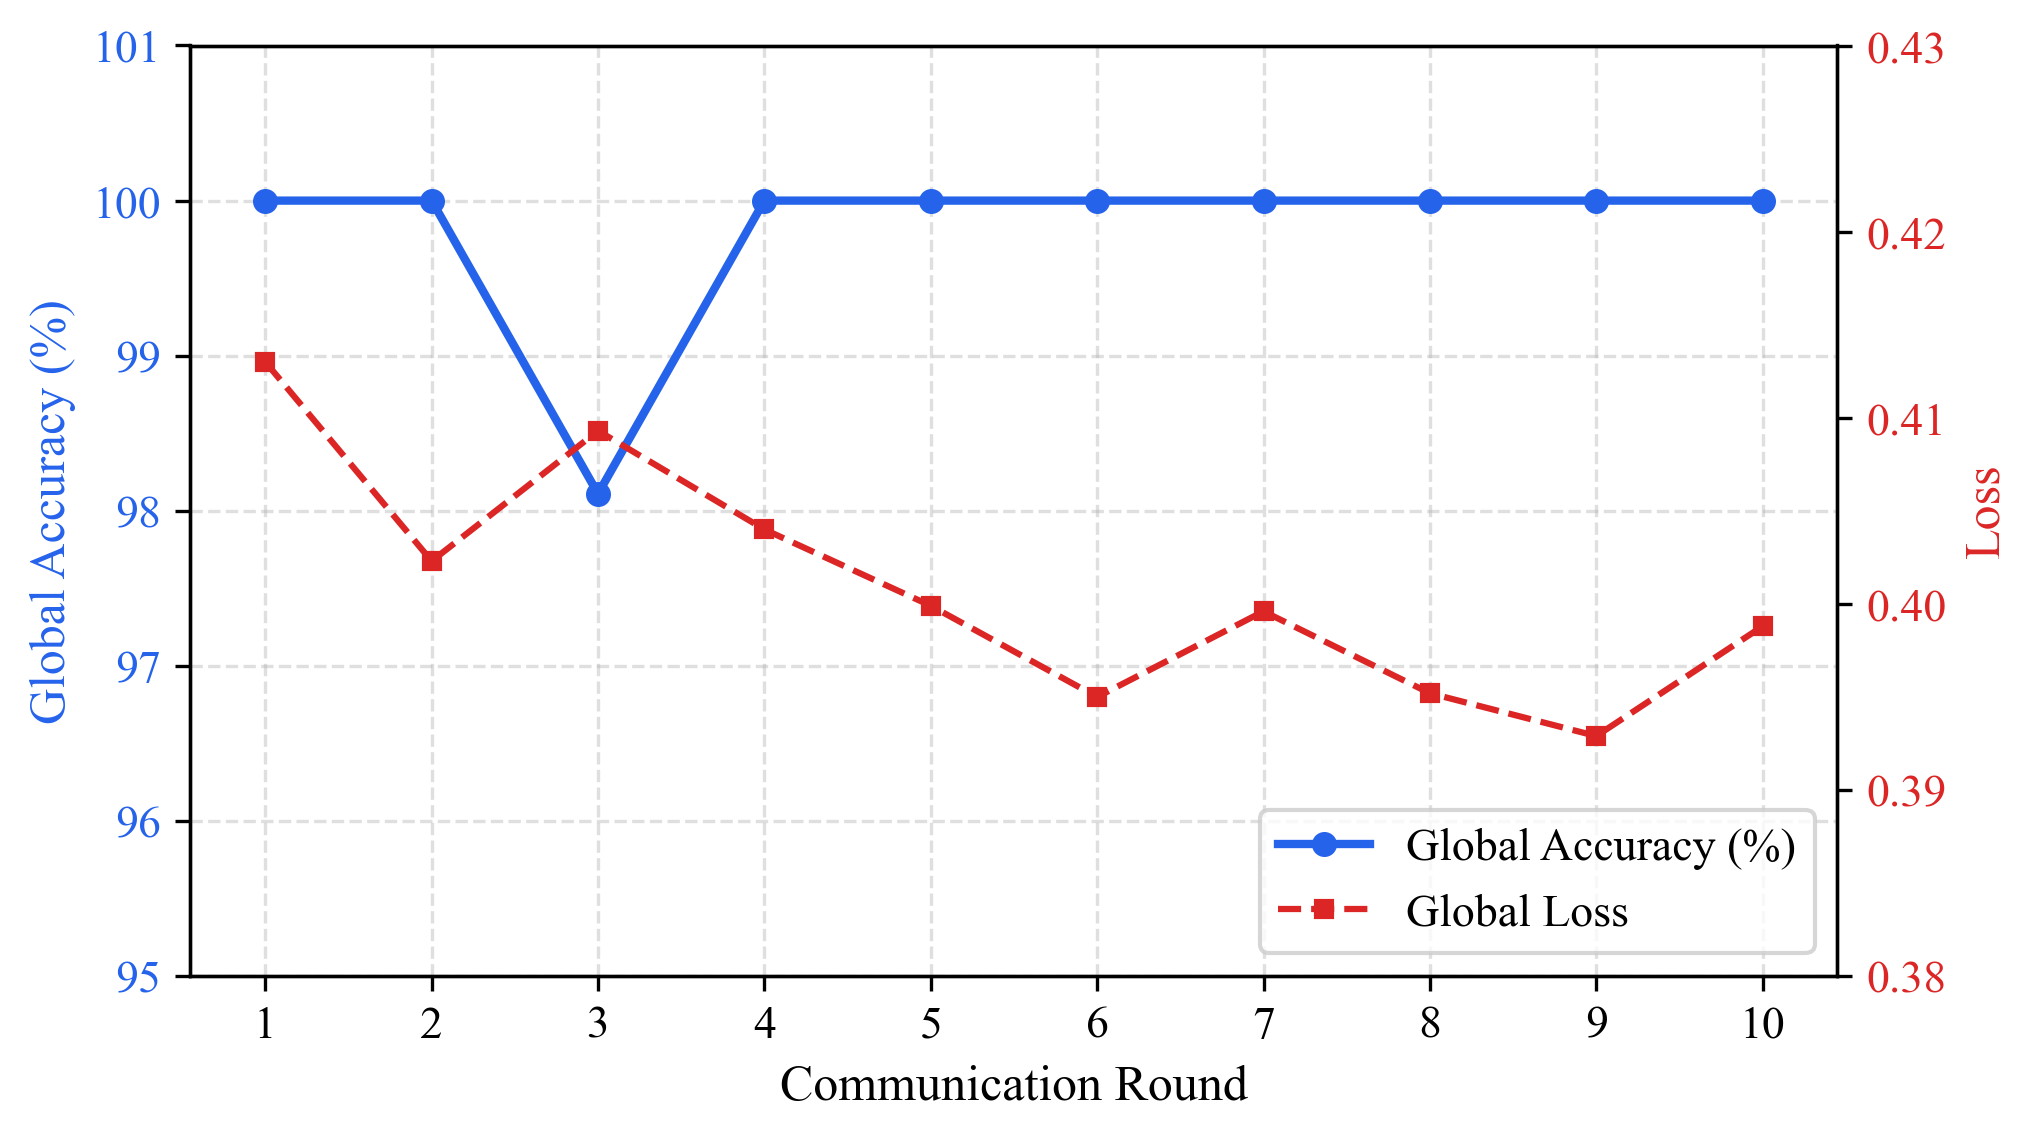
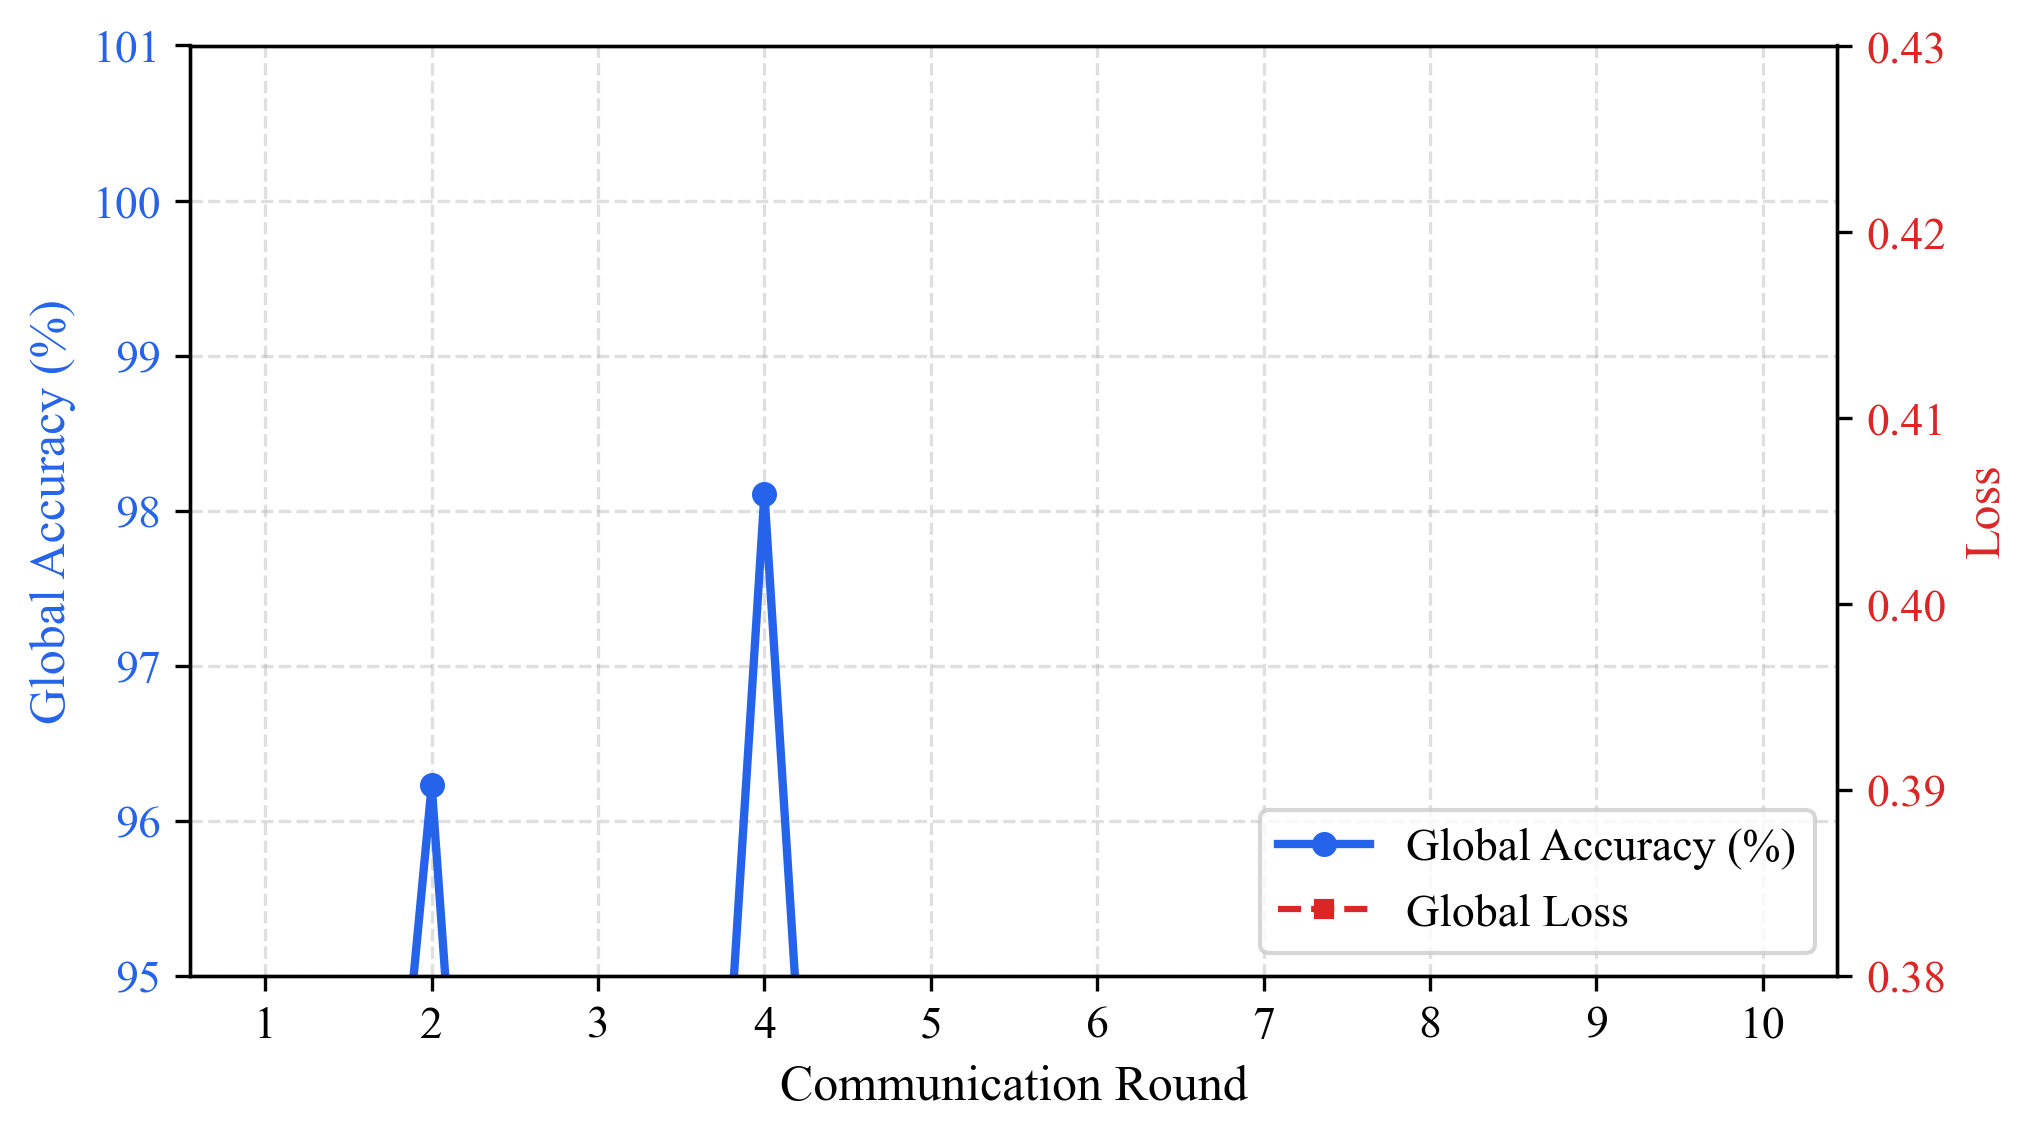
Add 3-client non-IID FL simulation results (drone/boat/ground scenario)
- fl_server.py: min_fit_clients 1→3, requires all 3 clients per round
- fl_training_log.txt: new 10-round results with drone/boat/ground split
  Drone: motor_oil+water (82 samples), Boat: olive_oil+lard (87),
  Ground: palm_oil (40). Best round 4: 98.11% aggregated accuracy.
  Ground client 0% local acc validates Discussion (palm oil ↔ water r=0.991)
- fl_convergence_curve: regenerated with new 3-client results
- README: updated FL table with non-IID split and per-client accuracy

diff --git a/src/federated/fl_server.py b/src/federated/fl_server.py
@@ -106,9 +106,9 @@ def main():
     strategy = SaveModelStrategy(
         fraction_fit=1.0,
         fraction_evaluate=1.0,
-        min_fit_clients=1,
-        min_evaluate_clients=1,
-        min_available_clients=1,
+        min_fit_clients=3,
+        min_evaluate_clients=3,
+        min_available_clients=3,
         initial_parameters=get_initial_parameters(),
         fit_metrics_aggregation_fn=fit_metrics_aggregation,
         evaluate_metrics_aggregation_fn=evaluate_metrics_aggregation,

diff --git a/README.md b/README.md
@@ -243,15 +243,34 @@ conda activate spectral && python src/federated/fl_client.py
 
 **FL flow:** Server broadcasts global weights → each client trains 5 local epochs → uploads Δweights → FedAvg aggregation → repeat for 10 rounds
 
-**Experimental results (10 rounds, FedAvg):**
+**Non-IID data split (by deployment scenario):**
 
-| Round | Accuracy | Loss |
-|:-----:|:--------:|:----:|
-| 1 | 100.00% | 0.413 |
-| 3 | 98.11% | 0.404 |
-| 4–10 | **100.00%** | 0.393–0.401 |
+| Client | Scenario | Classes | Samples |
+|--------|----------|---------|---------|
+| Drone (無人機) | Aerial surveillance | motor_oil + water | 82 |
+| Boat (船隻) | On-water monitoring | olive_oil + lard | 87 |
+| Ground (陸地) | Shore-based station | palm_oil | 40 |
 
-- 261 local samples (208 train / 53 val) · 5 epochs/round · 435.89 sec total
+**Experimental results (10 rounds, FedAvg, 3 clients):**
+
+| Round | Aggregated Accuracy | Loss |
+|:-----:|:------------------:|:----:|
+| 1 | 84.91% | 0.6677 |
+| 2 | **96.23%** | 0.6118 |
+| 3 | 81.13% | 0.7815 |
+| 4 | **98.11%** | 0.5969 |
+| 5–10 | 81–85% | 0.66–0.78 |
+
+**Per-client local accuracy (final round):**
+
+| Client | Local Accuracy | Note |
+|--------|:--------------:|------|
+| Drone | **100%** | motor_oil + water spectrally distinct |
+| Boat | **100%** | olive_oil + lard separable |
+| Ground | 0% | palm_oil (r=0.991 with water) — global model predicts as water; validates Discussion |
+
+- 5 local epochs/round · FedAvg weighted by sample count
+- Aggregated accuracy oscillates due to non-IID distribution — classic FL challenge
 - Convergence figure: `paper_figures/fl_convergence_curve.pdf`
 
 ---